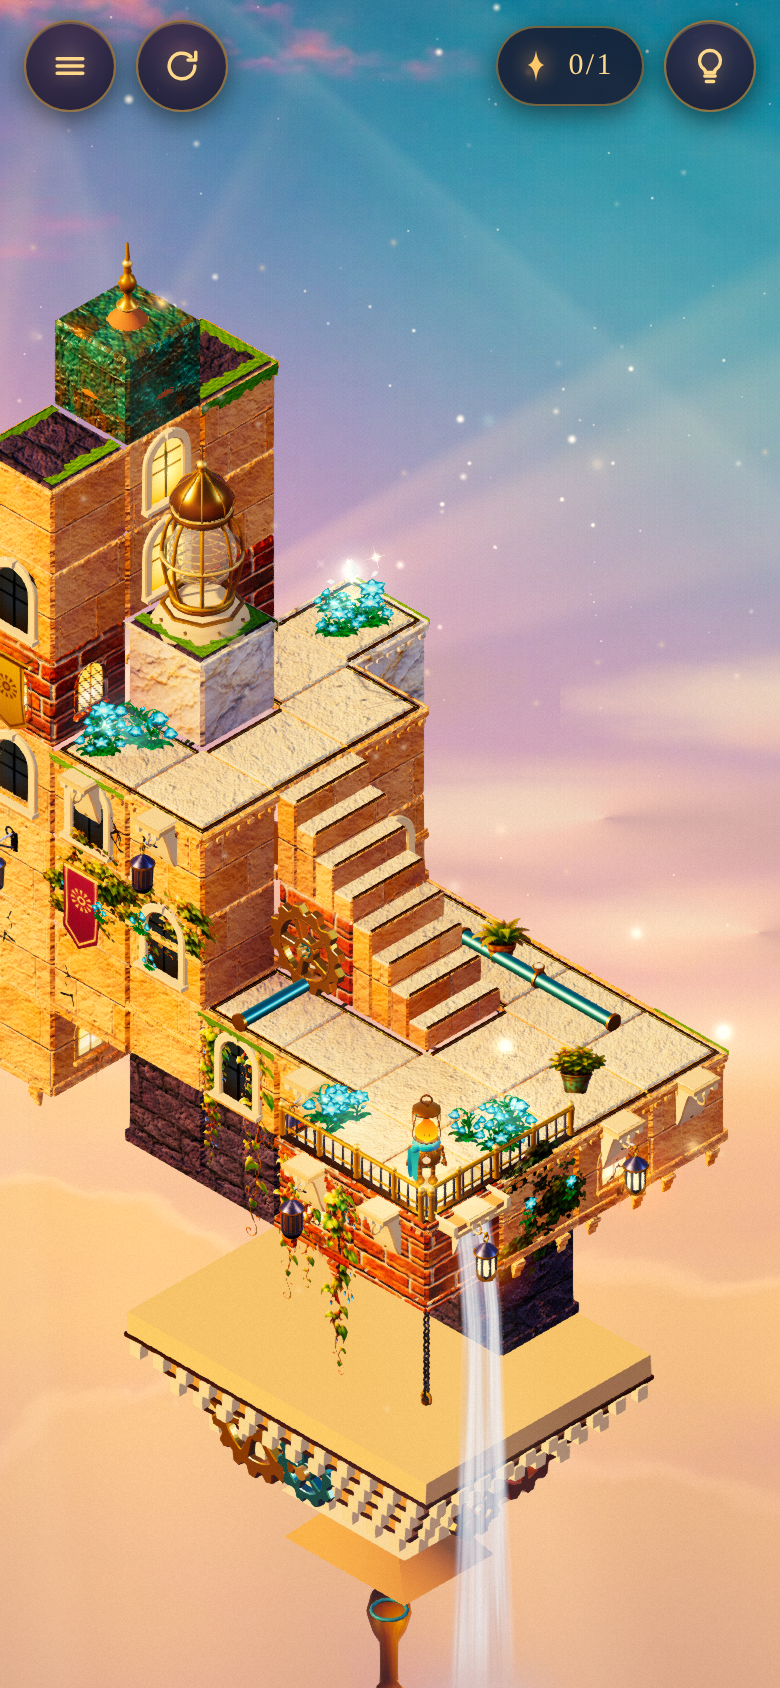
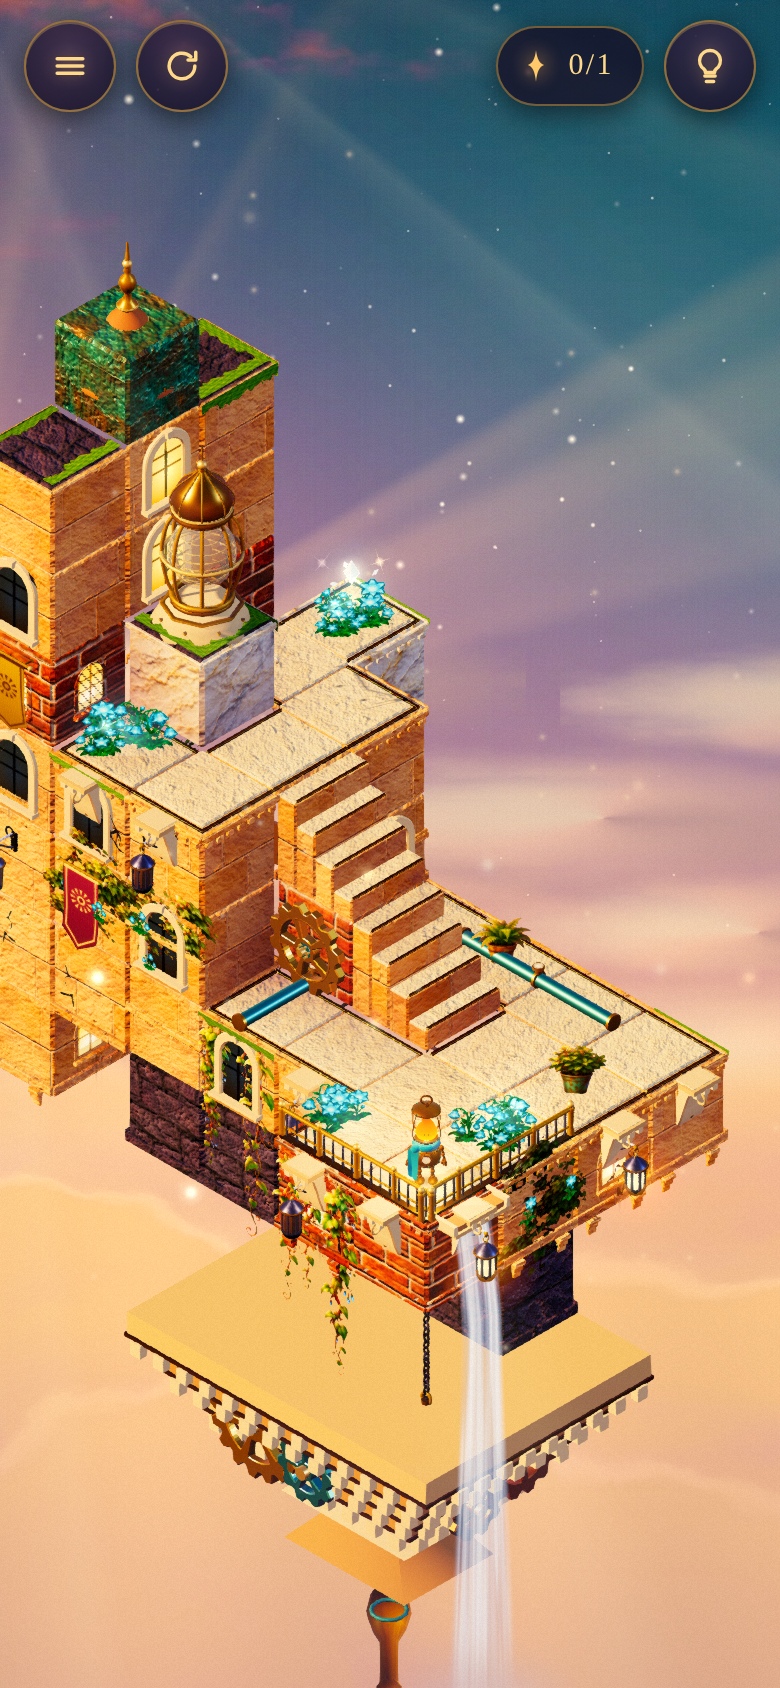
Spirelight: fix round in progress
Claude-Session: https://claude.ai/code/session_01KHq9E4PP77B82NWFRYgzJt

diff --git a/spirelight/js/world.js b/spirelight/js/world.js
@@ -15,6 +15,7 @@
   // colours are sRGB hex values (the backdrop shaders write display colours directly, untouched by tone mapping).
   const DATA = {
     dusk: {
+      topDark: 0.55,
       skyTop: 0x14123a, skyMid: 0x5a3f86, skyLow: 0xff9a6a, gain: 0.78,
       sunUv: [0.03, 0.54], focusX: 0.25,
       cloudLit: 0xffa05e, cloudMid: 0xd46f86, cloudShadow: 0x4a3278, cloudRim: 0xffd2a0, cloudCover: 0.44,
@@ -25,6 +26,7 @@
       cloudGain: 0.86,
     },
     night: {
+      topDark: 0.6,
       skyTop: 0x0d1030, skyMid: 0x141848, skyLow: 0x1f4660, gain: 0.72,
       sunUv: [0.935, 0.92], focusX: 0.72,
       cloudLit: 0x6fbcc0, cloudMid: 0x3f6f98, cloudShadow: 0x1c1f5a, cloudRim: 0xcff6ff, cloudCover: 0.44,
@@ -35,6 +37,7 @@
       cloudGain: 0.62,
     },
     aurora: {
+      topDark: 0.62,
       skyTop: 0x050d24, skyMid: 0x123a4e, skyLow: 0x1d6a66, gain: 0.85,
       sunUv: [0.5, 0.2], focusX: 0.5,
       cloudLit: 0x56b8a0, cloudMid: 0x2f6482, cloudShadow: 0x1a1f58, cloudRim: 0xc8ffe8, cloudCover: 0.46,
@@ -45,6 +48,7 @@
       cloudGain: 0.6,
     },
     dawn: {
+      topDark: 0.72,
       skyTop: 0x6f93d0, skyMid: 0xc6a4c8, skyLow: 0xffc08a, gain: 0.88,
       sunUv: [0.935, 0.17], focusX: 0.7,
       cloudLit: 0xf0b078, cloudMid: 0xd08486, cloudShadow: 0x75689c, cloudRim: 0xfff0d0, cloudCover: 0.44,
@@ -56,7 +60,7 @@
     },
   };
 
-  const NUM_KEYS = ["gain", "cloudGain", "glare", "rays", "stars", "aurora", "mist", "cloudCover", "keyI", "hemiI", "rimI", "exposure"];
+  const NUM_KEYS = ["topDark", "gain", "cloudGain", "glare", "rays", "stars", "aurora", "mist", "cloudCover", "keyI", "hemiI", "rimI", "exposure"];
   const COL_KEYS = ["skyTop", "skyMid", "skyLow", "cloudLit", "cloudMid", "cloudShadow", "cloudRim", "sunCol", "mistCol",
     "puff", "bird", "wisp", "keyCol", "hemiSky", "hemiGround", "rimCol"];
 
@@ -72,7 +76,7 @@
   ].join("\n");
   const FS_BACKDROP = [
     "precision highp float; varying vec2 vN;",
-    "uniform sampler2D uTexA, uTexB; uniform float uHasA, uHasB, uMix, uGain, uImgAspect, uAspect, uZoom, uFocusX;",
+    "uniform sampler2D uTexA, uTexB; uniform float uHasA, uHasB, uMix, uGain, uTopDark, uImgAspect, uAspect, uZoom, uFocusX;",
     "uniform vec2 uDrift; uniform vec3 uTop, uMid, uLow;",
     "vec2 cover(vec2 n){ vec2 uv = n * 0.5 + 0.5; float s = uAspect, ia = uImgAspect;",
     "  if (s > ia) uv.y = (uv.y - 0.5) * (ia / s) + 0.5; else uv.x = (uv.x - 0.5) * (s / ia) + 0.5 + (uFocusX - 0.5) * (1.0 - s / ia);",
@@ -82,7 +86,8 @@
     "  vec3 g = mix(uLow, uMid, smoothstep(0.0, 0.5, y)); g = mix(g, uTop, smoothstep(0.45, 1.0, y));",
     "  vec3 a = texture2D(uTexA, uv).rgb, b = texture2D(uTexB, uv).rgb;",
     "  a = mix(g, a, uHasA); b = mix(g, b, uHasB);",
-    "  gl_FragColor = vec4(mix(a, b, uMix) * uGain, 1.0); }",
+    "  vec3 col = mix(a, b, uMix) * uGain; col *= mix(1.0, uTopDark, smoothstep(0.1, 1.0, y)); col = pow(max(col, 0.0), vec3(1.18));",
+    "  gl_FragColor = vec4(col, 1.0); }",
   ].join("\n");
 
   // Fallback cloud sea (used only until/unless the painted cloud bands load): soft, low-contrast, domain-warped.
@@ -457,7 +462,7 @@
       S.uBack = {
         uTexA: { value: null }, uTexB: { value: null }, uHasA: { value: 0 }, uHasB: { value: 0 }, uMix: { value: 1 }, uGain: { value: 1 },
         uImgAspect: { value: S.imgAspect }, uAspect: { value: 1.6 }, uZoom: { value: S.zoom }, uFocusX: { value: 0.5 },
-        uDrift: { value: S.drift }, uTop: { value: S.cur.skyTop }, uMid: { value: S.cur.skyMid }, uLow: { value: S.cur.skyLow },
+        uDrift: { value: S.drift }, uTopDark: { value: 1 }, uTop: { value: S.cur.skyTop }, uMid: { value: S.cur.skyMid }, uLow: { value: S.cur.skyLow },
       };
       const mBack = blend(new T.ShaderMaterial({ uniforms: S.uBack, vertexShader: VS_FULL, fragmentShader: FS_BACKDROP }), "none");
       root.add(fullMesh(mBack, -1000));
@@ -694,7 +699,7 @@
       const tm = S.time;
       S.drift.set(Math.sin(tm * 0.021) * 0.0075 + Math.sin(tm * 0.047) * 0.002, Math.cos(tm * 0.017) * 0.005);
       const U = S.uBack;
-      U.uAspect.value = S.aspect; U.uGain.value = c.gain; U.uFocusX.value = c.focusX;
+      U.uAspect.value = S.aspect; U.uGain.value = c.gain; U.uTopDark.value = c.topDark; U.uFocusX.value = c.focusX;
 
       // sun / moon on screen, glued to the painting
       uvToNdc(c.sunUv.x, c.sunUv.y, S.sunNdc);
